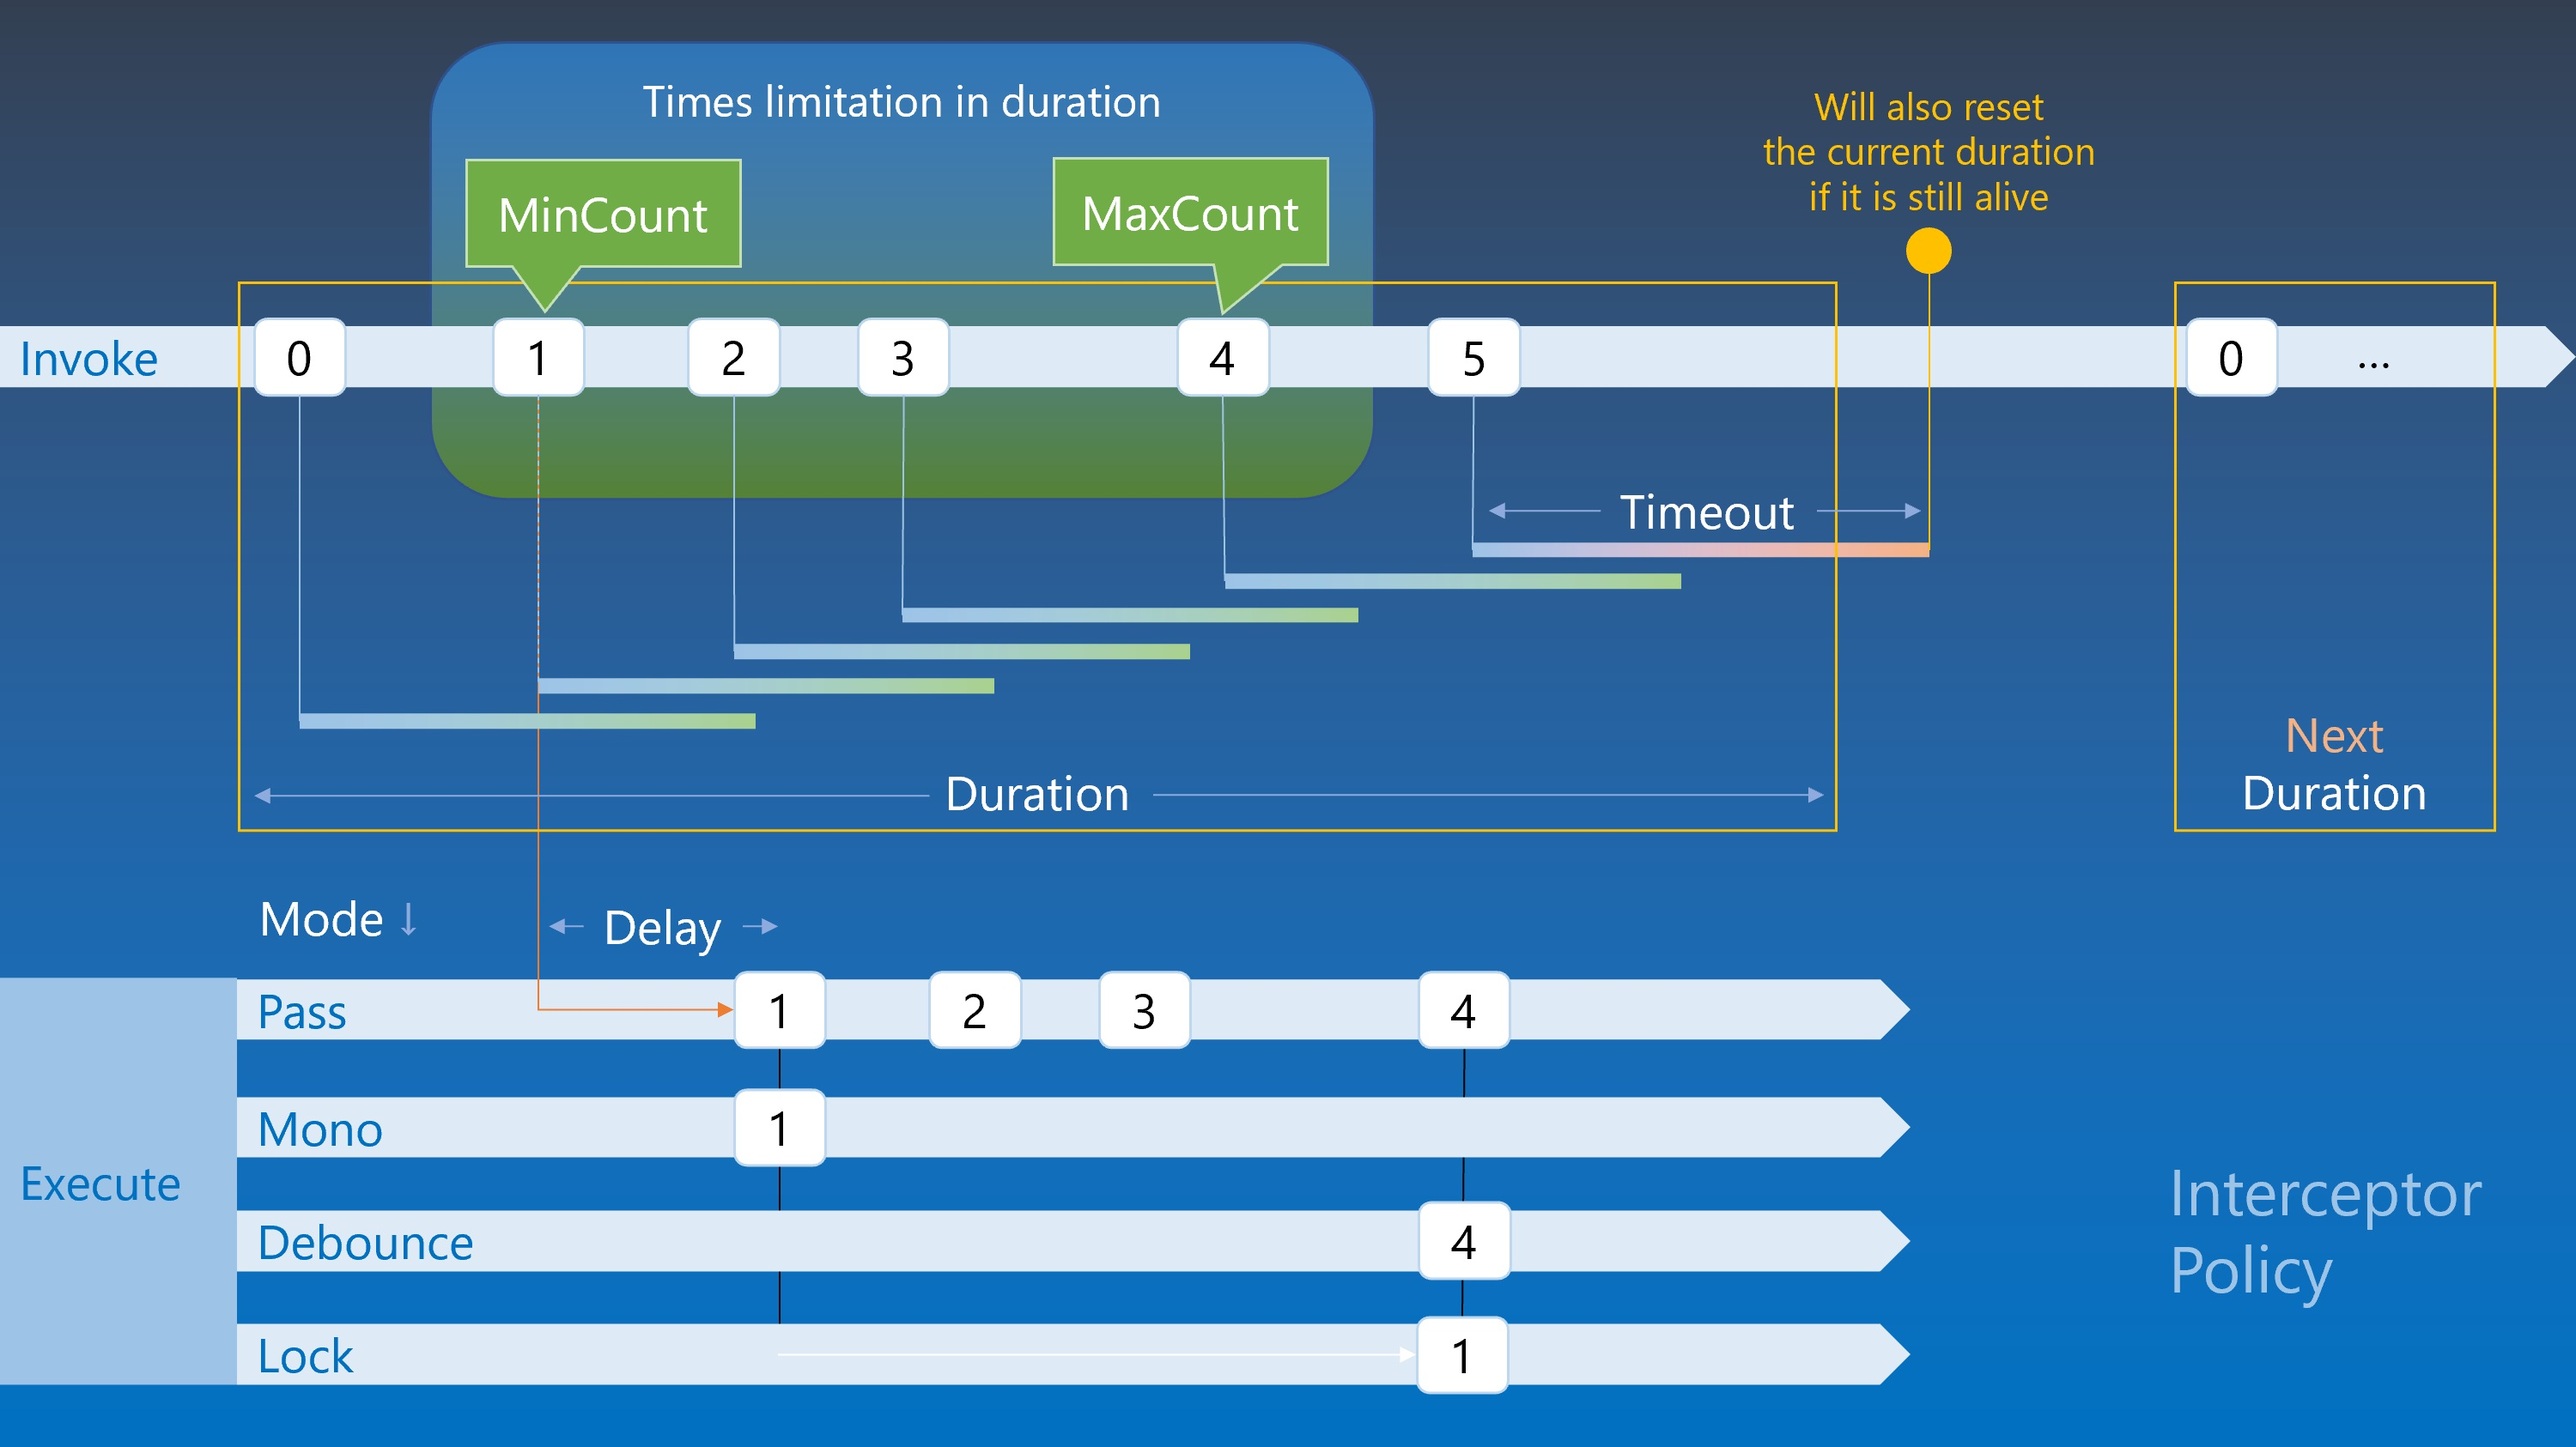
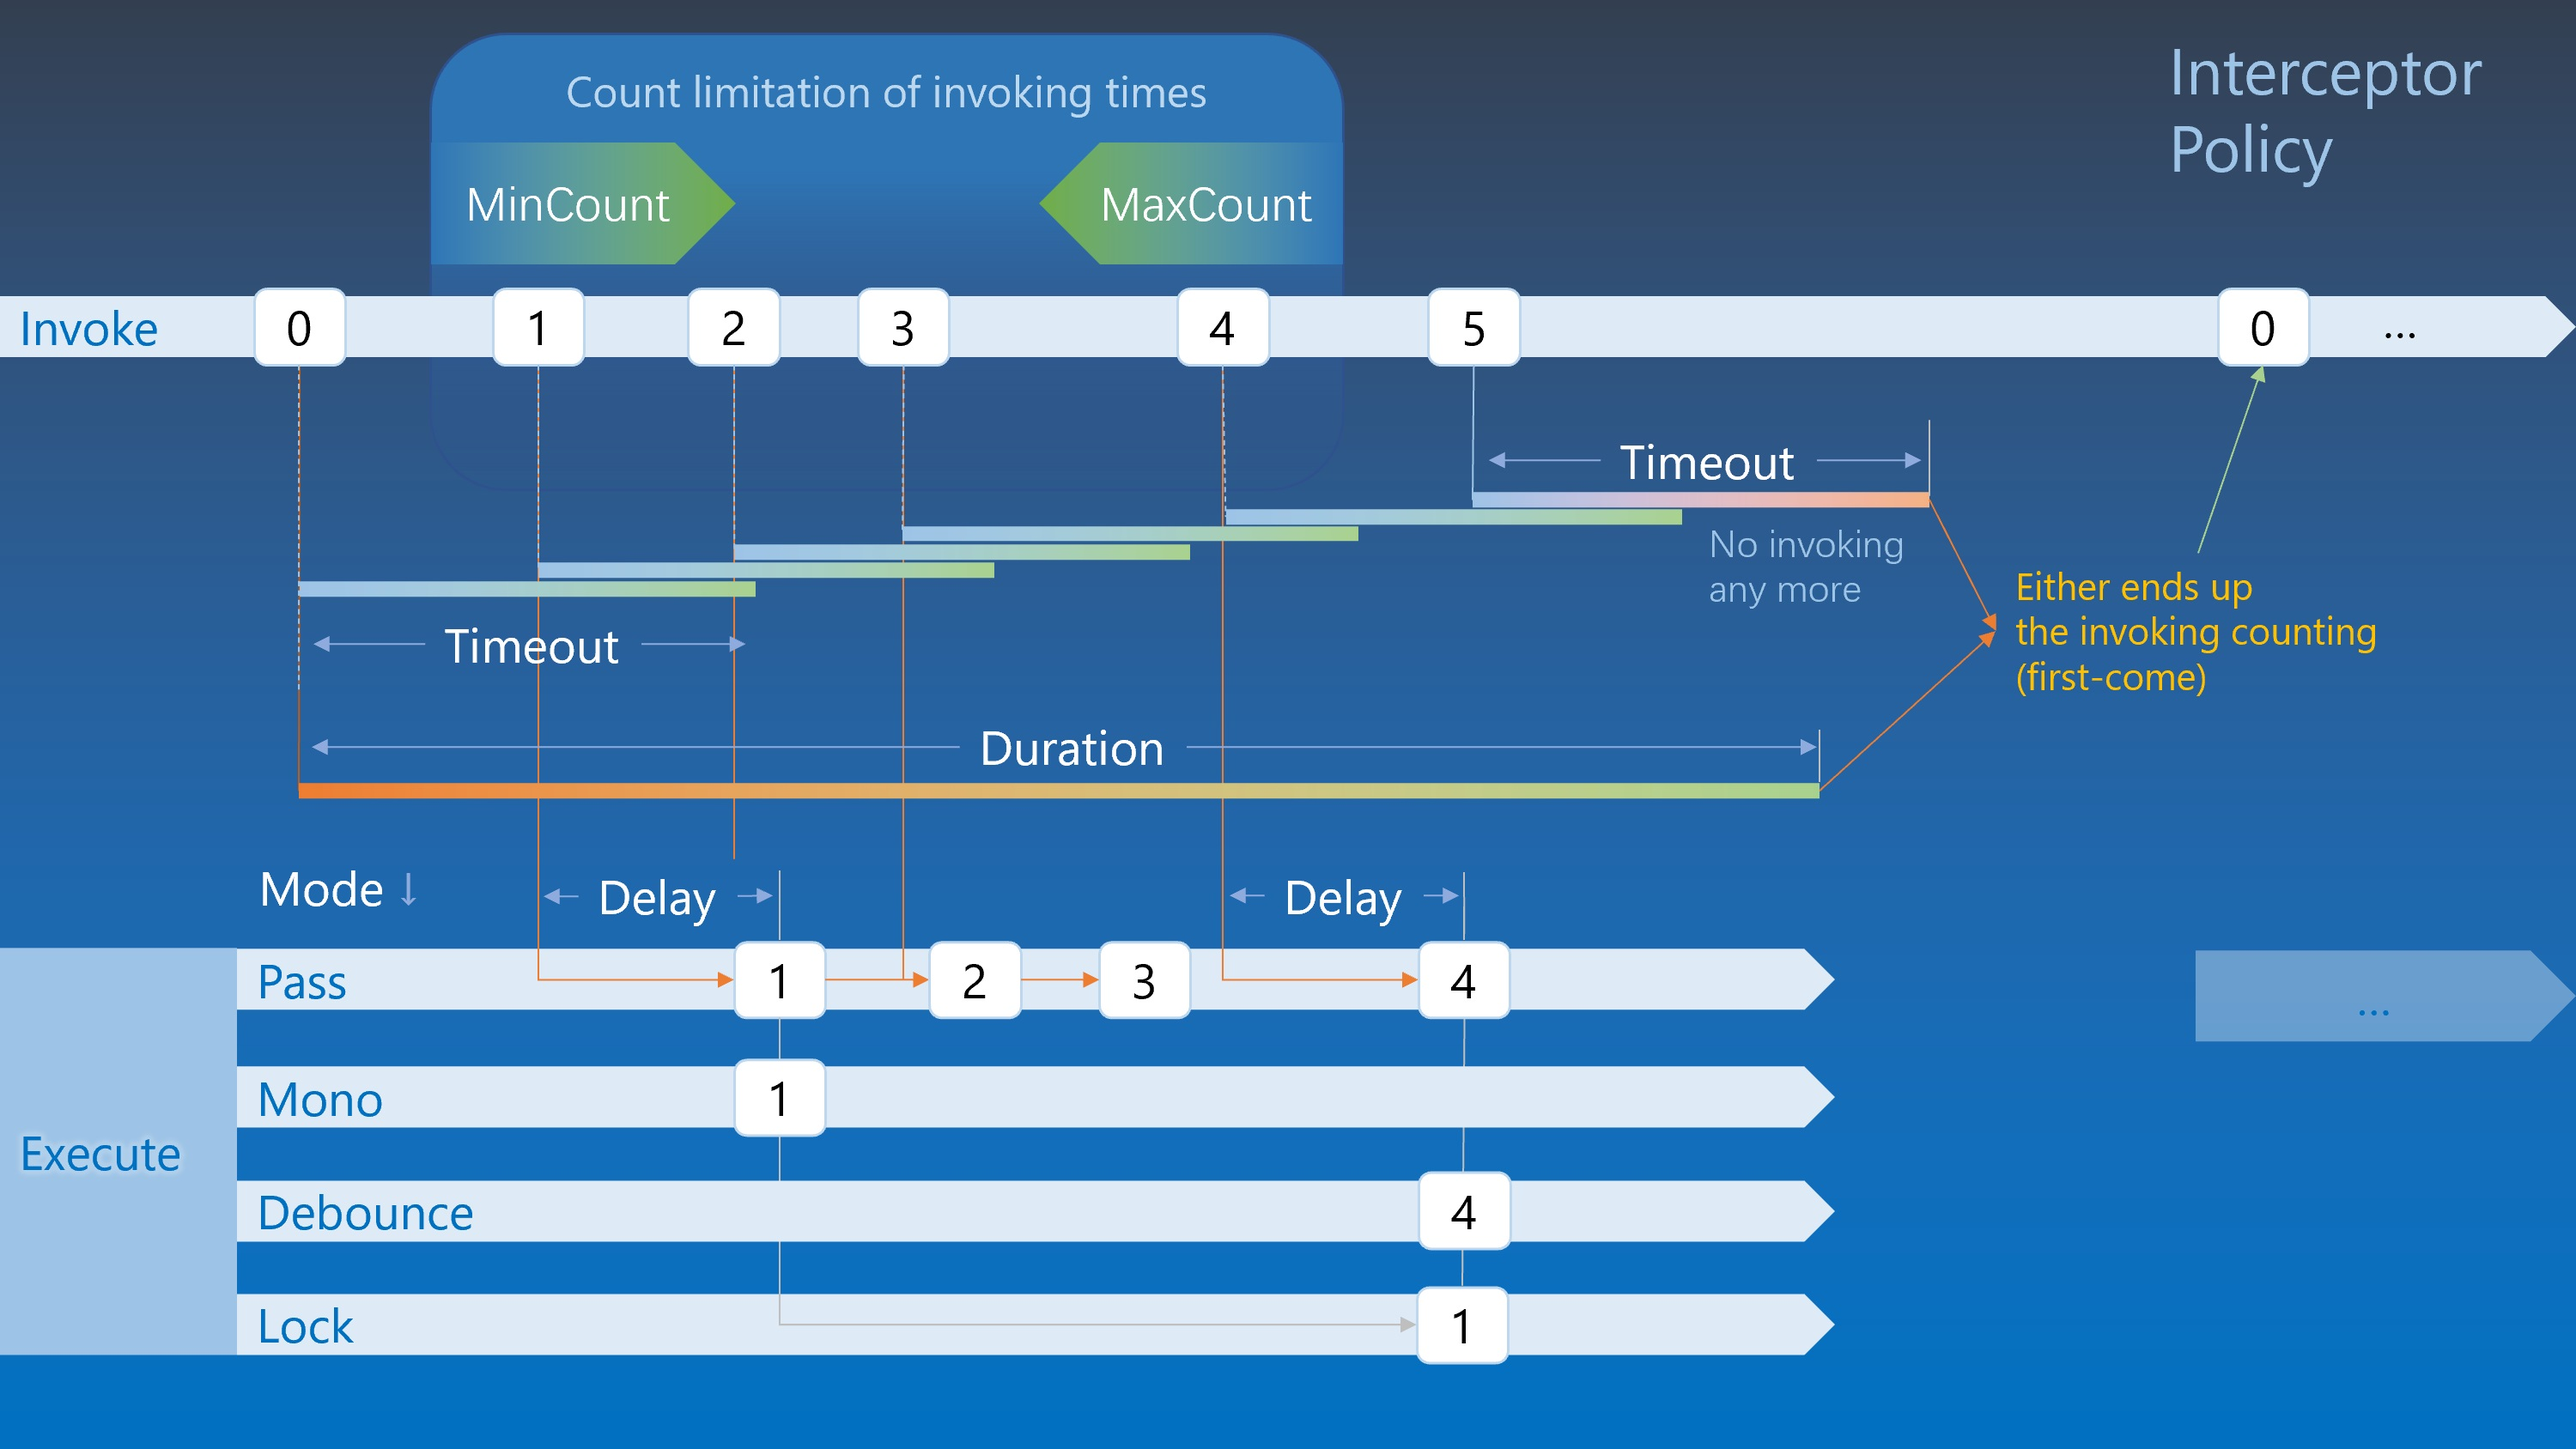
Update readme.

diff --git a/Core/README.md b/Core/README.md
@@ -8,33 +8,33 @@ This library includes utilities and services for tasks, security, JSON, etc.
 using Trivial.Tasks;
 ```
 
-### Hit task
+### Interceptor
 
-You can create a task controller to manage when a handler should be raised.
+You can set an action with a specific interceptor to control its execution.
 
-- `HitTask.Debounce`:
-  You may request to call a specific action several times in a short time but only the last one should be processed and previous ones should be ignored.
+- `Interceptor.Debounce`:
+  You may request to invoke a specific action several times in a short time but only the last one should be executed and previous ones should be ignored.
   A sample is real-time search suggestion.
-- `HitTask.Throttle`:
-  You may want to request to call an action only once in a short time even if you request to call several times.
+- `Interceptor.Throttle`:
+  You may want to execute an action only once in a short time even if you invoke several times.
   A sample is the submit button in a form.
-- `HitTask.Times`:
-  You can define an action can be only processed only when request to call in the specific times range and others will be ignored.
+- `Interceptor.Times`:
+  You can define an action can be only executed only when invoke in the specific times range and others will be ignored.
   A sample is double click.
-- `HitTask.Multiple`:
-  A handler to process for the specific times and the state will be reset after a while.
+- `Interceptor.Multiple`:
+  A handler to execute for the specific times and the state will be reset after a while.
 
 Following is an example for debounce.
 
 ```csharp
-// Create a task.
-var task = HitTask.Debounce(() =>
+// Set an action with interceptor.
+var action = Interceptor.Debounce(() =>
 {
     // Do something...
 }, TimeSpan.FromMilliseconds(200));
 
-// Raise somewhere.
-task.ProcessAsync();
+// Invoke somewhere.
+action();
 ```
 
 ### Retry
